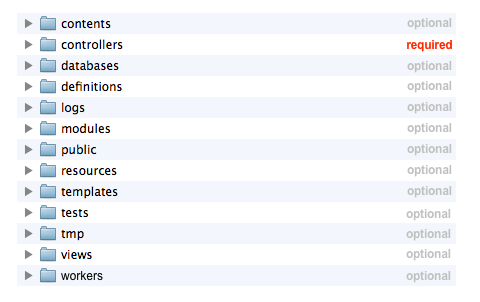
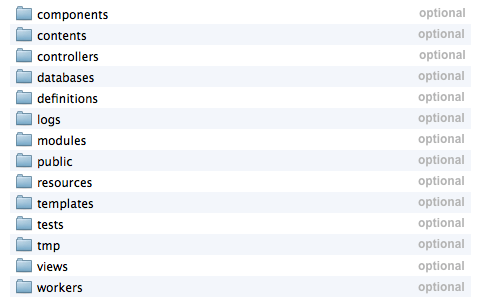
added: new version

Changed region(s): [[0.0312, 0.0, 0.25, 0.9834], [0.8438, 0.0298, 0.9688, 0.9834]]

diff --git a/views/how-it-works-components.html b/views/how-it-works-components.html
@@ -1,0 +1,108 @@
+@{meta('How do components work?')}
+
+<h1>How do components work?</h1>
+<br />
+<div class="message message-alert">
+	<b>Components are for rendering data (sync).</b> You can use components in other projects.
+</div>
+<br />
+<hr />
+<div class="text">
+	<ul>
+		<li>Component is plain JavaScript file.</li>
+		<li>All components are stored in <span class="high-code">your-app/components/</span> directory.</li>
+		<li>Framework automatically load each component into the memory.</li>
+		<li><span class="high-code">exports.install</span> is called automatically and one time.</li>
+		<li>You can create unlimited count of components.</li>
+		<li><span class="high-code">index.js</span> is start script for components in separate directories.</li>
+		<li class="red">Component can access to all functions, properties and events.</li>
+		<li><b>Component can inject from URL address</b> - <a href="https://github.com/totaljs/examples/tree/master/framework-inject-component" class="link">Example</a>.</li>
+		<li><a href="https://github.com/totaljs/components" class="link">Download existing modules</a>.</li>
+	</ul>
+</div>
+<hr />
+<div class="center">@{image('framework-start.png', 810, 300, 'Starting total.js project')}</div>
+<hr />
+<div class="documentation-example"><a href="https://github.com/totaljs/components">Download components</a><a href="https://github.com/totaljs/examples/tree/master/components">Component example</a></div>
+<br />
+<br />
+<h2 class="nmt">Component definition</h2>
+<br />
+<pre class="brush: jscript">// Component name: test
+var configuration = {};
+
+exports.install = function(framework, name) {
+
+	// Initialize function (is executed automatically one time)
+
+}
+
+exports.configure = function(obj) {
+	configuration = utils.extend(configuration, obj);
+};
+
+// THIS EXPORTED FUNCTION IS REQUIRED
+exports.render = function(arr) {
+	var builder = [];
+	arr.forEach(function(item) {
+		builder.push('&lt;li&gt;' + item + '&lt;/li&gt;');
+	});
+	return builder.join();
+};
+</pre>
+<br />
+<h2>Usage</h2>
+<h3>Universal usage</h3>
+<pre class="brush: jscript">// TIP: use definition for configuration
+console.log(framework.component('test').configure({ option: true }));
+
+// Render component
+console.log(framework.component('test').render([1, 2, 3, 4]));
+</pre>
+<br />
+<h3>In controllers</h3>
+<pre class="brush: jscript">
+function view_homepage() {
+	var self = this;
+	self.plain(self.component('test', [1, 2, 3, 4]));
+}
+</pre>
+<br />
+<h3>In views</h3>
+<pre class="brush: xml">&lt;div&gt;@&#123;component('test', [1, 2, 3, 4])&#125;&lt;/div&gt;
+
+&lt;!-- OR --&gt;
+
+&lt;div&gt;@&#123;component('test', model)&#125;&lt;/div&gt;
+
+&lt;!-- OR --&gt;
+
+&lt;div&gt;@&#123;component('test', repository.customData)&#125;&lt;/div&gt;
+</pre>
+<br />
+<h2>Monitoring components</h2>
+<br />
+<div class="text">
+	total.js supports monitoring of components via component usage. <a href="https://github.com/totaljs/examples/tree/master/framework-usage" class="link">Usage example</a>.
+</div>
+<br />
+<pre class="brush: jscript">var counter = 0;
+
+exports.install = function(framework, name) {
+	framework.route('/module/', view_module);
+};
+
+exports.usage = function() {
+	return 'Rendered: ' + counter;
+};
+
+// THIS EXPORTED FUNCTION IS REQUIRED
+exports.render = function(arr) {
+	counter++;
+	var builder = [];
+	arr.forEach(function(item) {
+		builder.push('&lt;li&gt;' + item + '&lt;/li&gt;');
+	});
+	return builder.join('\n');
+};
+</pre>

diff --git a/views/directory.html b/views/directory.html
@@ -18,8 +18,13 @@
 <br />
 <hr />
 <br />
+<h2>Directory: components</h2>
+<div class="mt20 text"><span class="high">optional</span> Directory contains all components files. Each component can render custom output and components you can use in other projects. Are very simple and effective.<br /><br /><a href="/how-does-it-work/components/" class="link">How do components work?</a><br /></div>
+<br />
+<hr />
+<br />
 <h2>Directory: controllers</h2>
-<div class="mt20 text"><span class="high red">required</span> Directory contains all controller files. Controller defines the different actions that your users can interact with. In each controller you can define routes, flags, functions, models, etc..<br /><br /><a href="/how-does-it-work/controllers/" class="link">How do controllers work?</a><br /><a href="/FrameworkController/" class="link">Documentation: FrameworkController</a><br /></div>
+<div class="mt20 text"><span class="high">optional</span> Directory contains all controller files. Controller defines the different actions that your users can interact with. In each controller you can define routes, flags, functions, models, etc..<br /><br /><a href="/how-does-it-work/controllers/" class="link">How do controllers work?</a><br /><a href="/FrameworkController/" class="link">Documentation: FrameworkController</a><br /></div>
 <br />
 <hr />
 <br />
@@ -35,6 +40,11 @@
 <br />
 <h2>Directory: logs</h2>
 <div class="mt20 text"><span class="high">optional</span> This directory is optional and contains all log files. Log file is a plain text file and the file name contains date about its creation <span class="high-code">yyyy-MM-dd.log</span>. You can create a log file with: <span class="high-code">framework.log('my description')</span> or<br /><span class="high-code">controller.log('my description')</span>.<br /><br /><a href="/Framework/#framework.log" class="link">Documentation: framework.log()</a><br /><a href="/FrameworkController/#controller.log" class="link">Documentation: controller.log()</a><br /><div class="documentation-example"><a href="https://github.com/totaljs/examples/tree/master/logs">Example</a></div></div>
+<br />
+<hr />
+<br />
+<h2>Directory: models</h2>
+<div class="mt20 text"><span class="high">optional</span> Directory contains all models. Each model can contain a model definition. Recommended for database models.<br /><br /><a href="/how-does-it-work/models/" class="link">How do models work?</a><br /></div>
 <br />
 <hr />
 <br />

diff --git a/views/how-it-works-templates.html b/views/how-it-works-templates.html
@@ -187,9 +187,9 @@
 <div class="text">
 	Templates support very simple conditions. You can use EVEN/ODD or BOOLEAN condition. Template knows 3 types of conditions:
 	<ul>
-		<li>Boolean condition <span class="high-code">{booelan | 'true' : 'false'}</span></li>
-		<li>Number (odd/even) condition <span class="high-code">{number | 'even' : 'odd'}</span></li>
-		<li>Current index (odd/even) condition <span class="high-code">{# | 'even' : 'odd'}</span></li>
+		<li>Boolean condition <span class="high-code">{boolean ? 'true' : 'false'}</span></li>
+		<li>Number (odd/even) condition <span class="high-code">{number ? 'even' : 'odd'}</span></li>
+		<li>Current index (odd/even) condition <span class="high-code">{# ? 'even' : 'odd'}</span></li>
 	</ul>
 </div>
 <div class="text mt10">
@@ -197,14 +197,17 @@
 		&lt;ul&gt;
 		&lt;!--
 			&lt;li&gt;
-				&lt;div&gt;{boolean | 'if true (encoded)' : 'if false (encoded) - optional'}&lt;/div&gt;
-				&lt;div&gt;{!boolean | 'if true (raw)' : 'if false (raw) - optional'}&lt;/div&gt;
+				&lt;div&gt;{boolean ? 'if true (encoded)' : 'if false (encoded) - optional'}&lt;/div&gt;
+				&lt;div&gt;{!boolean ? 'if true (raw)' : 'if false (raw) - optional'}&lt;/div&gt;
 				&lt;br /&gt;
-				&lt;div&gt;{number | 'if even (encoded)' : 'if odd (encoded) - optional'}&lt;/div&gt;
-				&lt;div&gt;{!number | 'if even (raw)' : 'if odd (raw) - optional'}&lt;/div&gt;
+				&lt;div&gt;{number ? 'if even (encoded)' : 'if odd (encoded) - optional'}&lt;/div&gt;
+				&lt;div&gt;{!number ? 'if even (raw)' : 'if odd (raw) - optional'}&lt;/div&gt;
 				&lt;br /&gt;
-				&lt;div&gt;{# | 'if even (encoded)' : 'if odd (encoded) - optional'}&lt;/div&gt;
-				&lt;div&gt;{!# | 'if even (raw)' : 'if odd (raw) - optional'}&lt;/div&gt;
+				&lt;div&gt;{# ? 'if even (encoded)' : 'if odd (encoded) - optional'}&lt;/div&gt;
+				&lt;div&gt;{!# ? 'if even (raw)' : 'if odd (raw) - optional'}&lt;/div&gt;
+				&lt;br /&gt;
+				&lt;div&gt;{number % 2 === 0 ? 'if even (encoded)' : 'if odd (encoded) - optional'}&lt;/div&gt;
+				&lt;div&gt;{!number % 2 === 0 ? 'if even (raw)' : 'if odd (raw) - optional'}&lt;/div&gt;
 			&lt;/li&gt;
 		--&gt;
 		&lt;/ul&gt;

diff --git a/views/_layout.html b/views/_layout.html
@@ -46,16 +46,18 @@
             <br />
             <div><strong>How does it works?</strong></div>
             <ul>
-                <li><a href="/how-does-it-work/definitions/">Definitions</a></li>
-                <li><a href="/how-does-it-work/controllers/">Controllers</a></li>
-                <li><a href="/how-does-it-work/modules/">Modules</a></li>
-                <li><a href="/how-does-it-work/views/">Views / Render engine</a></li>
-                <li><a href="/how-does-it-work/templates/">Templates</a></li>
-                <li><a href="/how-does-it-work/resources/">Resources</a></li>
-                <li><a href="/how-does-it-work/html-css-js/">HTML, CSS, JS</a></li>
                 <li><a href="/how-does-it-work/authorization/">Authorization</a></li>
-                <li><a href="/how-does-it-work/validation/">Validation</a></li>            
+                <li><a href="/how-does-it-work/components/">Components</a></li>
+                <li><a href="/how-does-it-work/controllers/">Controllers</a></li>
+                <li><a href="/how-does-it-work/definitions/">Definitions</a></li>
+                <li><a href="/how-does-it-work/html-css-js/">HTML, CSS, JS</a></li>
+                <li><a href="/how-does-it-work/models/">Models</a></li>
+                <li><a href="/how-does-it-work/modules/">Modules</a></li>
+                <li><a href="/how-does-it-work/resources/">Resources</a></li>
                 <li><a href="/how-does-it-work/security/">Security (XSS, CSRF)</a></li>
+                <li><a href="/how-does-it-work/templates/">Templates</a></li>
+                <li><a href="/how-does-it-work/validation/">Validation</a></li>            
+                <li><a href="/how-does-it-work/views/">Views / Render engine</a></li>
             </ul>
             <br />
             <div><strong>Documentation</strong></div>

diff --git a/views/how-it-works-models.html b/views/how-it-works-models.html
@@ -1,0 +1,39 @@
+@{meta('How do models work?')}
+
+<h1>How do models work?</h1>
+<br />
+<div class="message message-alert">
+	<b>Models serve for database schemas.</b> You can use models in other projects.
+</div>
+<br />
+<hr />
+<div class="text">
+	<ul>
+		<li>Model is plain JavaScript file.</li>
+		<li>All models are stored in <span class="high-code">your-app/models/</span> directory.</li>
+		<li>You can create unlimited count of models.</li>
+		<li><b>Model can inject from URL address</b> - <a href="https://github.com/totaljs/examples/tree/master/framework-inject-model" class="link">Example</a>.</li>
+	</ul>
+</div>
+<hr />
+<div class="documentation-example"><a href="https://github.com/totaljs/examples/tree/master/models">Model example</a></div>
+<br />
+<h2 class="nmt">Model definition</h2>
+<br />
+<pre class="brush: jscript">// Model name: article
+exports.comment = function() {
+	return { content: String, date: Date };
+};
+</pre>
+<br />
+<h2>Usage</h2>
+<h3>Universal usage</h3>
+<pre class="brush: jscript">var model = framework.model('article').comment();</pre>
+<br />
+<h3>In controllers</h3>
+<pre class="brush: jscript">
+function view_homepage() {
+	var self = this;
+	self.json(self.component('article').comment());
+}
+</pre>

diff --git a/views/how-it-works-modules.html b/views/how-it-works-modules.html
@@ -23,13 +23,13 @@
 		<li class="red">Module can create any files.</li>
 		<li>total.js supports the <b>global modul</b> <span class="high-code">#.js</span>.</li>
 		<li><b>Module can inject from URL address</b> - <a href="https://github.com/totaljs/examples/tree/master/framework-inject-module" class="link">Example</a>.</li>
-		<li><a href="https://github.com/petersirka/total.js-modules" class="link">Download existing modules</a>.</li>
+		<li><a href="https://github.com/totaljs/modules" class="link">Download existing modules</a>.</li>
 	</ul>
 </div>
 <hr />
 <div class="center">@{image('framework-start.png', 810, 300, 'Starting total.js project')}</div>
 <hr />
-<div class="documentation-example"><a href="https://github.com/petersirka/total.js-modules">Download modules</a><a href="https://github.com/totaljs/examples/tree/master/framework-modules">Module example</a></div>
+<div class="documentation-example"><a href="https://github.com/totaljs/modules">Download modules</a><a href="https://github.com/totaljs/examples/tree/master/framework-modules">Module example</a></div>
 
 <br />
 <br />

diff --git a/views/configuration.html b/views/configuration.html
@@ -69,6 +69,8 @@ etag-version                       :
 directory-definitions              : /definitions/
 directory-contents                 : /contents/
 directory-controllers              : /controllers/
+directory-components               : /components/
+directory-models                   : /models/
 directory-views                    : /views/
 directory-temp                     : /tmp/
 directory-templates                : /templates/
